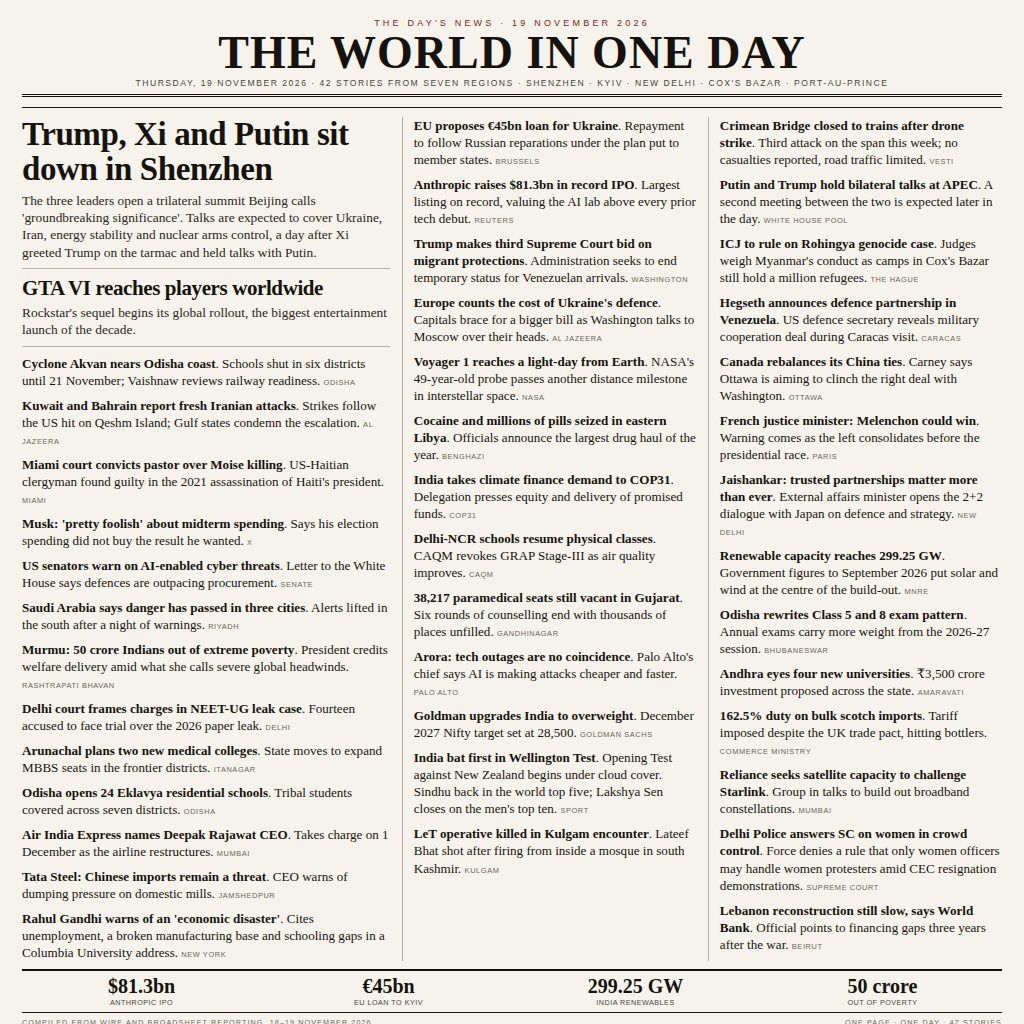
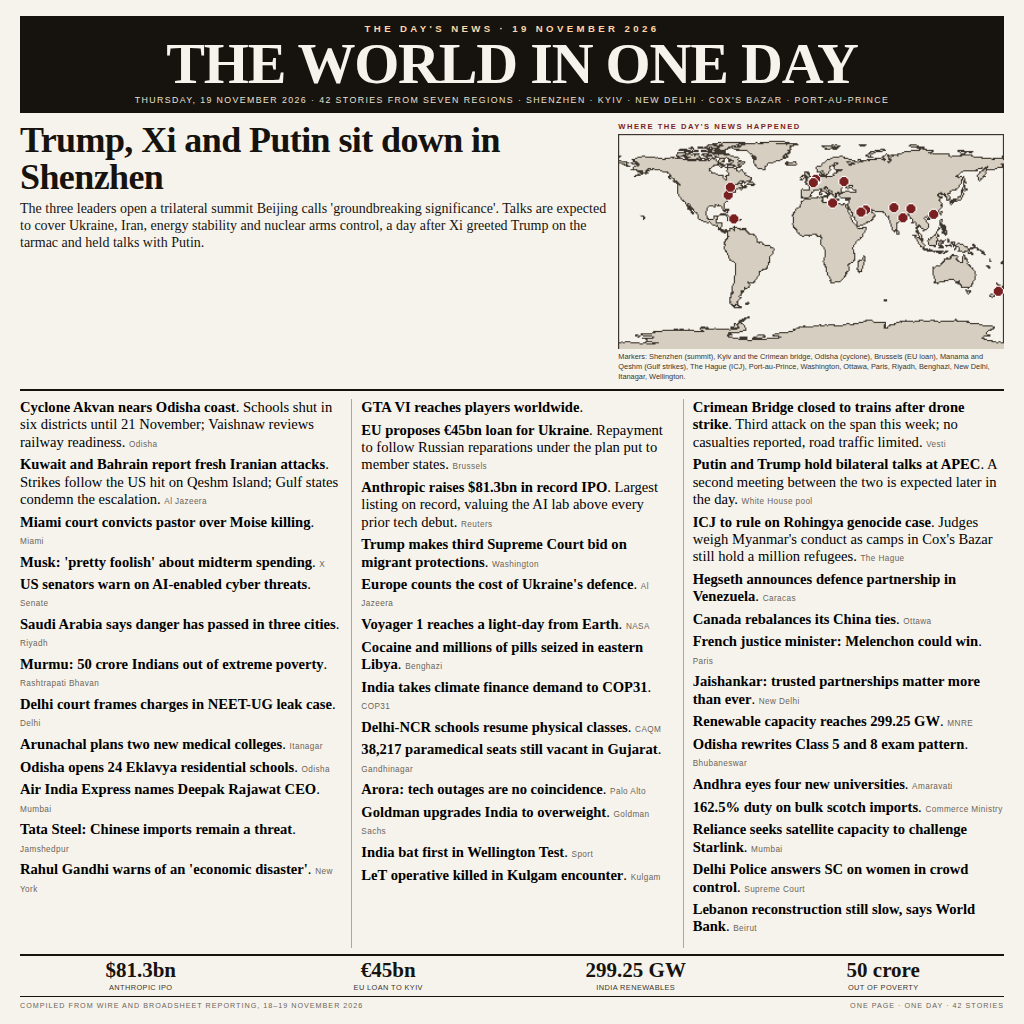
entry: heavier front page with a world map panel

diff --git a/README.md b/README.md
@@ -4,9 +4,9 @@
 [![rank](https://make.fun/badge/news-image-20261119/myvivlos/news-2026-11-19/rank.svg)](https://make.fun/bounty/news-image-20261119/leaderboard?utm_source=github&utm_medium=readme&utm_campaign=news-image-20261119)
 [![reward](https://make.fun/badge/news-image-20261119/myvivlos/news-2026-11-19/reward.svg)](https://make.fun/bounty/news-image-20261119?utm_source=github&utm_medium=readme&utm_campaign=news-image-20261119)
 
-A dense one-page broadsheet headed "THE WORLD IN ONE DAY", dated Thursday 19 November 2026: 42
-stories from seven regions, led by the Shenzhen trilateral. The program writes the finished
-1024x1024 image, unchanged, as `entry.png`.
+A heavy black-nameplate front page headed "THE WORLD IN ONE DAY" for Thursday 19 November 2026: 42
+sourced headlines in three tight columns, a world map panel marking where each story happened, and
+a strip of four figures. The program writes the finished 1024x1024 image, unchanged, as `entry.png`.
 
 ## Run it
 
